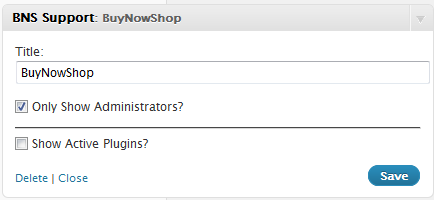
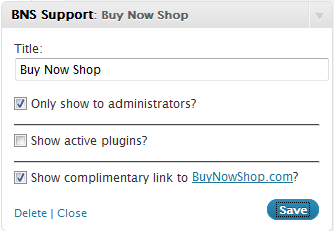
git-svn-id: https://plugins.svn.wordpress.org/bns-support/trunk@204405 b8457f37-d9ea-0310-8a92-e5e31aec5664

Changed region(s): [[0.0, 0.03, 1.0, 0.99], [0.9281, 0.06, 0.988, 0.09]]

diff --git a/bns-support-style.css b/bns-support-style.css
@@ -1,3 +1,19 @@
+/*
+This file is part of BNS Support.
+
+BNS Support is free software: you can redistribute it and/or modify it under
+the terms of the GNU General Public License as published by the Free Software
+Foundation, either version 2 of the License, or (at your option) any later
+version.
+
+BNS Support is distributed in the hope that it will be useful, but WITHOUT ANY
+WARRANTY; without even the implied warranty of MERCHANTABILITY or FITNESS FOR A
+PARTICULAR PURPOSE. See the GNU General Public License for more details.
+
+You should have received a copy of the GNU General Public License along with
+BNS Support. If not, see <http://www.gnu.org/licenses/>.
+*/
+
 /* CSS Document for WordPress plugin: BNS Support */
 div.bns-support {text-align: left;}
 div.bns-support h6 {

diff --git a/bns-support.php b/bns-support.php
@@ -3,26 +3,29 @@
 Plugin Name: BNS Support
 Plugin URI: http://buynowshop.com/plugins/bns-support/
 Description: Simple display of useful support information in the sidebar. Easy to copy and paste details, such as: the blog name; WordPress version; name of installed theme; and, active plugins list. Help for those that help. The information is only viewable by logged-in readers; and, by optional default, the blog administrator(s) only.
-Version: 0.5
+Version: 0.5.1
 Author: Edward Caissie
 Author URI: http://edwardcaissie.com/
 */
 
 /*
 **
-* Plugin Changelog: see readme.txt
+* Copyright 2009, 2010 Edward Caissie
 *
-* The CSS, XHTML and design is released under GPL:
-* http://www.opensource.org/licenses/gpl-license.php
-*
-* This program is free software; you can redistribute it and/or modify
+* This program is free software: you can redistribute it and/or modify
 * it under the terms of the GNU General Public License as published by
-* the Free Software Foundation; either version 2 of the License, or
+* the Free Software Foundation, either version 2 of the License, or
 * (at your option) any later version.
 *
 * This program is distributed in the hope that it will be useful,
 * but WITHOUT ANY WARRANTY; without even the implied warranty of
-* MERCHANTABILITY or FITNESS FOR A PARTICULAR PURPOSE.
+* MERCHANTABILITY or FITNESS FOR A PARTICULAR PURPOSE.  See the
+* GNU General Public License for more details.
+*
+* You should have received a copy of the GNU General Public License
+* along with this program.  If not, see <http://www.gnu.org/licenses/>.
+*
+* Plugin Changelog: see readme.txt
 **
 */
 
@@ -217,7 +220,7 @@ class BNS_Support_Widget extends WP_Widget {
 		$widget_ops = array( 'classname' => 'bns-support', 'description' => __('Widget to display and share common helpful support details.') );
 
 		/* Widget control settings. */
-		$control_ops = array( 'width' => 400, 'height' => 350, 'id_base' => 'bns-support' );
+		$control_ops = array( 'width' => 300, 'height' => 350, 'id_base' => 'bns-support' );
 
 		/* Create the widget. */
 		$this->WP_Widget( 'bns-support', 'BNS Support', $widget_ops, $control_ops );
@@ -317,7 +320,7 @@ class BNS_Support_Widget extends WP_Widget {
 				'title'         => get_bloginfo('name'),
 				'blog_admin'    => true,
 				'show_plugins'  => false,
-				'credits'       => true,
+				'credits'       => false,
 			);
 		$instance = wp_parse_args( (array) $instance, $defaults );
 
@@ -330,21 +333,21 @@ class BNS_Support_Widget extends WP_Widget {
 		
     <p>
 			<input class="checkbox" type="checkbox" <?php checked( (bool) $instance['blog_admin'], true ); ?> id="<?php echo $this->get_field_id( 'blog_admin' ); ?>" name="<?php echo $this->get_field_name( 'blog_admin' ); ?>" />
-			<label for="<?php echo $this->get_field_id( 'blog_admin' ); ?>"><?php _e('Only Show Administrators?'); ?></label>
+			<label for="<?php echo $this->get_field_id( 'blog_admin' ); ?>"><?php _e('Only show to administrators?'); ?></label>
 		</p>
 
     <hr />
     
     <p>
 			<input class="checkbox" type="checkbox" <?php checked( (bool) $instance['show_plugins'], true ); ?> id="<?php echo $this->get_field_id( 'show_plugins' ); ?>" name="<?php echo $this->get_field_name( 'show_plugins' ); ?>" />
-			<label for="<?php echo $this->get_field_id( 'show_plugins' ); ?>"><?php _e('Show Active Plugins?'); ?></label>
+			<label for="<?php echo $this->get_field_id( 'show_plugins' ); ?>"><?php _e('Show active plugins?'); ?></label>
 		</p>
 		
 		<hr />
 
     <p>
 			<input class="checkbox" type="checkbox" <?php checked( (bool) $instance['credits'], true ); ?> id="<?php echo $this->get_field_id( 'credits' ); ?>" name="<?php echo $this->get_field_name( 'credits' ); ?>" />
-			<label for="<?php echo $this->get_field_id( 'credits' ); ?>"><?php _e('Show credits?'); ?></label>
+			<label for="<?php echo $this->get_field_id( 'credits' ); ?>"><?php _e('Show complimentary link to '); ?></label><a href="http://buynowshop.com/">BuyNowShop.com</a>?
 		</p>
 
   <?php
